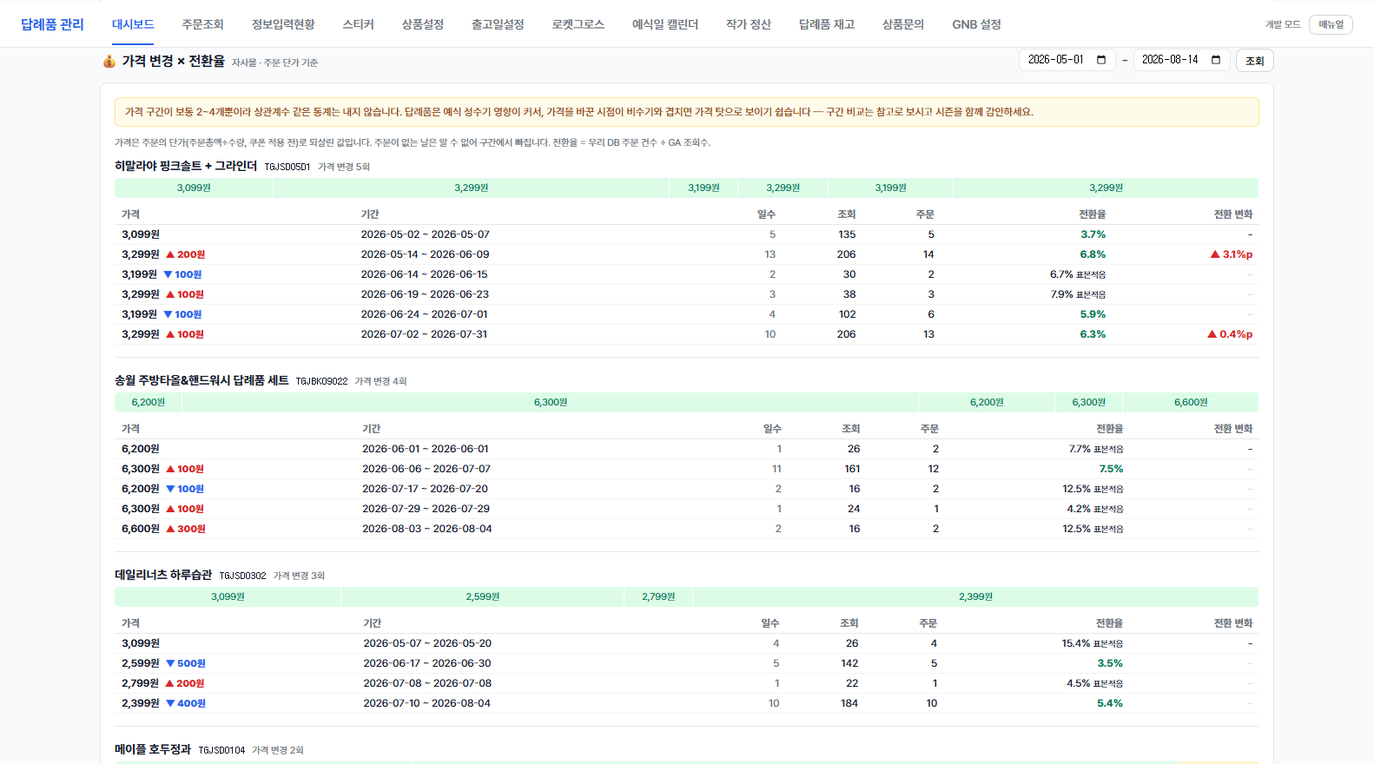
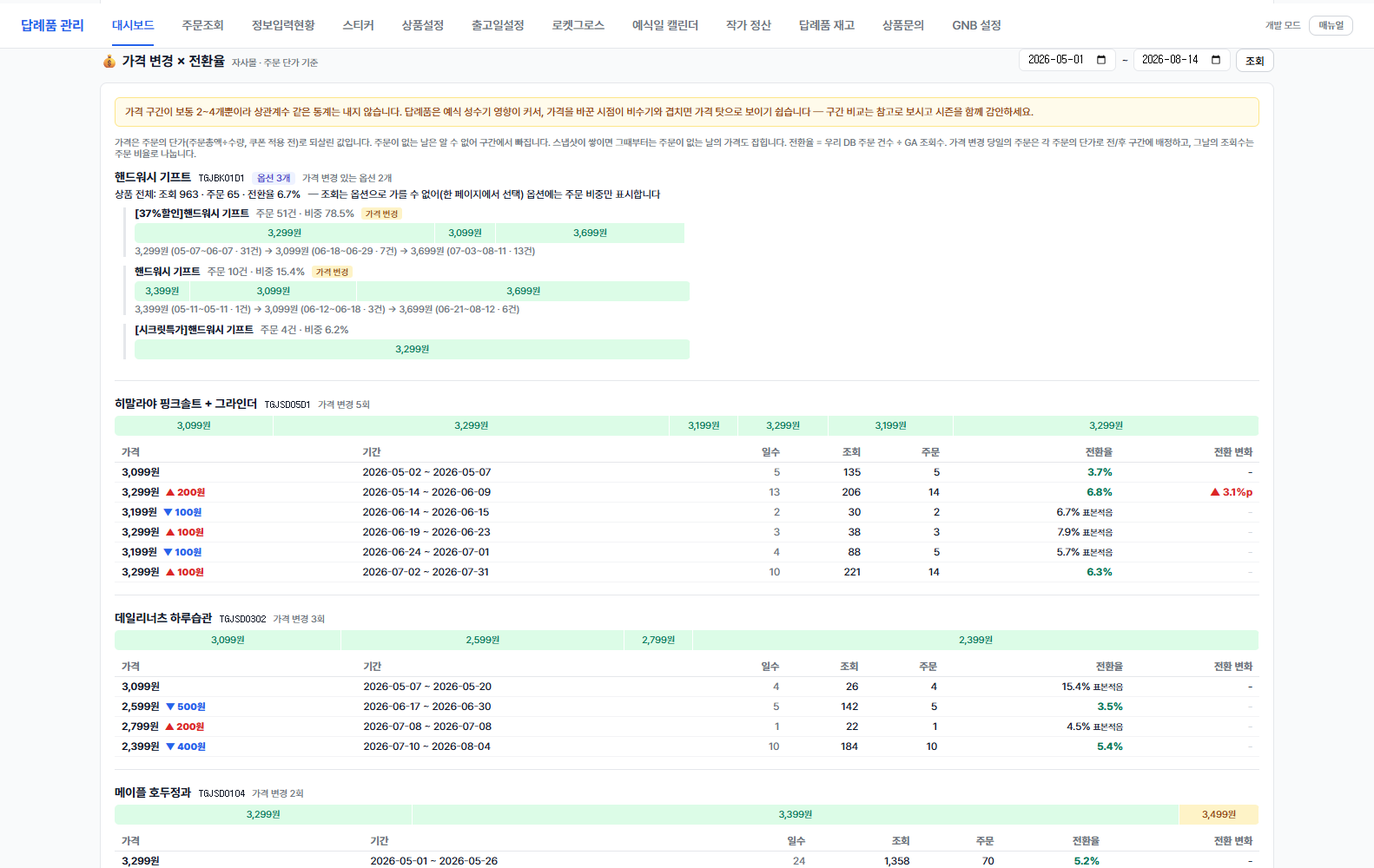
feat: 가격×전환 — 옵션(판매단위)별 분리 + 변경 당일 주문을 단가로 전/후 배정
1) 옵션 상품 분리 (수건 질문에서 시작)
   수건류는 옵션(색상·종류·판형)이 각각 별도 판매단위(S2_CARD.Card_Seq)로 존재하고
   가격이 제각각이다 (라이트무지 3,600 / 뱀부 5,400 / 호텔컬렉션 5,500). 심지어 같은
   Card_Code 에 고리수건(3,100)과 송월세트(6,200)가 함께 있어, 코드로 뭉치는 기존
   방식은 이런 상품에서 가격이 섞였다.

   주문이 판매단위를 물고 있으므로(custom_order_item.card_seq → API 의 item_card_seq)
   옵션 축으로 갈라 분석한다:
   · 옵션별 가격 구간을 따로 산출. 옵션명은 S2_CARD 에서 직접 해석.
   · 조회수는 옵션으로 가를 수 없다 (GA itemId 가 코드 단위, 한 페이지에서 옵션 선택)
     — 없는 값을 만들지 않고 전환율 대신 '주문 비중' 을 준다.
   · 옵션 상품 판정은 '주문 비중 15%+ 판매단위 2개 이상'. 판매단위 개수로만 가르면
     메이플 호두정과(정가/할인/시크릿 변형)까지 옵션 상품이 돼 핵심 가격 스토리가
     사라진다 — 실제로 그렇게 됐다가 기준을 좁혀 복원했다 (21종 중 4종만 옵션 상품).
   · 판매단위별 가격 스냅샷(066)은 이미 card_seq 축이라 그대로 옵션 이력에 얹힌다.
     옵션 다중 상품에는 스냅샷을 코드 합계에 덮지 않는다 — 한 옵션의 가격이 코드
     전체의 '그날 가격' 이 되면 다른 옵션이 지워진다.

   실측: 핸드워시 기프트가 [37%할인](3,299→3,099→3,699 · 비중 78.5%) 와
   일반(3,399→3,099→3,699 · 15.4%) 두 축으로 갈라졌다 — 같은 상품이 동시에 두
   가격으로 팔리고 있었다는 사실 자체가 코드 합계에서는 보이지 않던 정보다.

2) 가격 변경 당일 주문 배정 (사용자 제안)
   가격은 00시에 바뀌는 게 아니라서 변경 당일에는 두 가격의 주문이 섞인다.
   그날의 주문을 각 주문의 단가로 전/후 구간에 배정하고, 조회수는 시각을 모르므로
   (GA 는 일 단위) 그날의 주문 비율로 나눈다. 실측: 메이플 5/26 경계일에서 옛가격
   주문은 이전 구간, 새가격 1건은 새 구간으로 갈라졌다.

단위 테스트 19건 (경계일 양방향 배정 · 조회 분할 비율 · 노이즈 흡수 유지 · 옵션 분리 ·
옵션가 오염 방지). 매뉴얼 3-4⅝ 갱신.

diff --git a/pricing-prototype/daeryepum/ga/price-trend.js b/pricing-prototype/daeryepum/ga/price-trend.js
@@ -44,6 +44,7 @@ const pct = (num, den) => (den > 0 ? Math.round((num / den) * 1000) / 10 : null)
  */
 function dailyPrices(rows) {
   const byCode = new Map();   // base코드 → Map(날짜 → Map(단가 → 건수))
+  const bySeq = new Map();    // base코드 → Map(card_seq → { days: 같은 구조 })
   const names = new Map();
   for (const r of rows || []) {
     if (r.order_type !== 'CARD' && r.order_type !== 'ETC') continue;
@@ -62,14 +63,32 @@ function dailyPrices(rows) {
     const m = days.get(d);
     m.set(unit, (m.get(unit) || 0) + 1);
     if (r.card_name && !names.has(code)) names.set(code, r.card_name);
+    // 판매단위(card_seq)별로도 쌓는다 — 수건처럼 옵션마다 가격이 다른 상품은
+    //   코드 합계에서 가격이 섞이므로 이 축이 있어야 갈라 보인다.
+    const seq = Number(r.item_card_seq);
+    if (Number.isFinite(seq) && seq > 0) {
+      if (!bySeq.has(code)) bySeq.set(code, new Map());
+      const seqs = bySeq.get(code);
+      if (!seqs.has(seq)) seqs.set(seq, { days: new Map(), name: null });
+      const e = seqs.get(seq);
+      if (!e.days.has(d)) e.days.set(d, new Map());
+      const sm = e.days.get(d);
+      sm.set(unit, (sm.get(unit) || 0) + 1);
+    }
   }
-  return { byCode, names };
+  return { byCode, bySeq, names };
 }
 
 /**
  * 일자별 단가 → 가격 구간.
  *   하루의 대표 단가는 '가장 많이 팔린 단가'. 연속으로 같은 값이면 한 구간으로 잇는다.
  *   주문 1건짜리 튀는 날이 구간을 쪼개지 않도록, 앞뒤가 같은 값이면 흡수한다.
+ *
+ * 경계일 처리 (2026-08-14 요청):
+ *   가격은 00시에 바뀌는 게 아니라서 변경 당일에는 두 가격의 주문이 섞인다.
+ *   그날의 주문은 각자의 단가로 전/후 구간에 배정한다 — 대표 단가로 뭉뚱그리면
+ *   변경 당일의 반나절치가 엉뚱한 구간에 들어간다.
+ *   조회수는 시각을 모르므로(GA 는 일 단위) 그날의 주문 비율로 나눈다.
  */
 function segmentsOf(days) {
   const sorted = [...days.entries()].sort((a, b) => a[0].localeCompare(b[0]));
@@ -87,16 +106,42 @@ function segmentsOf(days) {
     }
   }
   const segs = [];
+  const segIndexOfDay = new Map();   // 날짜 → 대표 구간 index
   for (const d of daily) {
     const last = segs[segs.length - 1];
     if (last && last.price === d.price) {
-      last.end = d.date; last.days++; last.orders += d.orders;
+      last.end = d.date; last.days++;
     } else {
-      segs.push({ price: d.price, start: d.date, end: d.date, days: 1, orders: d.orders });
+      segs.push({ price: d.price, start: d.date, end: d.date, days: 1 });
     }
+    segIndexOfDay.set(d.date, segs.length - 1);
+  }
+
+  // 주문을 구간에 배정한다. 기본은 그날의 대표 구간, 경계일의 다른쪽 가격 주문은
+  //   그 가격의 인접 구간으로 보낸다. dayShare 는 조회수 분할용 (날짜 → 구간index → 건수).
+  for (const s of segs) { s.orders = 0; s.boundary_split = 0; }
+  const dayShare = new Map();
+  for (const [d, m] of sorted) {
+    const idx = segIndexOfDay.get(d);
+    const cover = segs[idx];
+    const share = new Map();
+    for (const [price, count] of m) {
+      let target = idx;
+      if (price !== cover.price) {
+        const prev = segs[idx - 1];
+        const next = segs[idx + 1];
+        if (prev && prev.price === price && d === cover.start) target = idx - 1;
+        else if (next && next.price === price && d === cover.end) target = idx + 1;
+        // 그 외의 다른 가격(옵션가·오입력)은 대표 구간에 그대로 둔다 — mixed 로 이미 표시된다
+      }
+      segs[target].orders += count;
+      if (target !== idx) { segs[target].boundary_split += count; segs[idx].end_shared = true; }
+      share.set(target, (share.get(target) || 0) + count);
+    }
+    dayShare.set(d, share);
   }
   const mixedDays = daily.filter(d => d.mixed).length;
-  return { daily, segs, mixedDays };
+  return { daily, segs, mixedDays, dayShare };
 }
 
 /** GA 일자별 상품 조회수 — (base코드, 날짜) → 조회 */
@@ -130,28 +175,45 @@ async function viewsDaily(site, startDate, endDate) {
  * @param {function} opts.fetchOrders (start, end) => 주문 rows
  * @param {string}   opts.code        특정 상품만 (없으면 가격이 바뀐 상품 전부)
  */
-async function priceTrend({ startDate, endDate, fetchOrders, code = null, sites = ['card', 'etc'] } = {}) {
+async function priceTrend({ startDate, endDate, fetchOrders, code = null, sites = ['card', 'etc'], resolveSeqNames = null } = {}) {
   if (!startDate || !endDate) throw new Error('기간이 필요합니다');
   if (typeof fetchOrders !== 'function') throw new Error('fetchOrders 가 필요합니다');
   if (!api.isConfigured()) return { configured: false, config: api.configStatus(), products: [] };
 
   const orderRows = await fetchOrders(startDate, endDate);
-  const { byCode, names } = dailyPrices(orderRows);
+  const { byCode, bySeq, names } = dailyPrices(orderRows);
 
   // 기록된 가격 이력이 있으면 그날의 가격을 그것으로 덮는다.
   //   주문 역산은 '주문이 있는 날' 만 알고 변경 시각도 그만큼 늦게 잡힌다.
   //   스냅샷은 주문이 없어도 값을 알기 때문에 있는 날짜만큼은 이쪽이 정확하다.
+  //   ⚠ 옵션이 여럿인 상품(bySeq 2개+)은 코드 합계에 덮지 않는다 — 스냅샷은 판매단위별
+  //     값이라, 한 옵션의 가격을 코드 전체의 '그날 가격' 으로 박으면 다른 옵션이 지워진다.
   let historyDays = 0;
   try {
     const hist = await require('../barungift/price-watch').listPriceHistory({ startDate, endDate });
     for (const h of hist) {
-      const code = toBase(h.product_code || h.card_code);
+      const codeKey = toBase(h.product_code || h.card_code);
       const d = day(h.captured_at);
-      if (!code || !d || !h.sale_price) continue;
-      if (!byCode.has(code)) byCode.set(code, new Map());
-      // 그날의 대표 단가를 기록값으로 확정한다 (건수를 크게 줘 최빈값 선정에서 이긴다)
-      byCode.get(code).set(d, new Map([[Number(h.sale_price), 9999]]));
-      if (h.product_name && !names.has(code)) names.set(code, h.product_name);
+      if (!codeKey || !d || !h.sale_price) continue;
+      const seqs = bySeq.get(codeKey);
+      const multiOption = (seqs?.size || 0) > 1;
+      if (!multiOption) {
+        if (!byCode.has(codeKey)) byCode.set(codeKey, new Map());
+        // 그날의 대표 단가를 기록값으로 확정한다 (건수를 크게 줘 최빈값 선정에서 이긴다)
+        byCode.get(codeKey).set(d, new Map([[Number(h.sale_price), 9999]]));
+      }
+      // 판매단위별 이력은 옵션 축에 정확히 얹는다 (옵션명도 여기서 온다 — 주문 rows 의
+      //   card_name 은 코드 대표명이라 옵션을 구분하지 못한다)
+      const seq = Number(h.card_seq);
+      if (Number.isFinite(seq) && seq > 0) {
+        if (!bySeq.has(codeKey)) bySeq.set(codeKey, new Map());
+        const sm = bySeq.get(codeKey);
+        if (!sm.has(seq)) sm.set(seq, { days: new Map(), name: null });
+        const e = sm.get(seq);
+        e.days.set(d, new Map([[Number(h.sale_price), 9999]]));
+        if (h.product_name && !e.name) e.name = h.product_name;
+      }
+      if (h.product_name && !names.has(codeKey)) names.set(codeKey, h.product_name);
       historyDays++;
     }
   } catch (e) {
@@ -168,20 +230,25 @@ async function priceTrend({ startDate, endDate, fetchOrders, code = null, sites 
   }
   const viewsOf = (c, d) => viewMaps.reduce((s, m) => s + (m.get(`${c}|${d}`) || 0), 0);
 
-  const products = [];
-  for (const [c, days] of byCode) {
-    if (code && toBase(code) !== c) continue;
-    const { daily, segs, mixedDays } = segmentsOf(days);
-    if (!code && segs.length < 2) continue;   // 가격이 안 바뀐 상품은 목록에서 뺀다
-
-    // 구간별 조회수 — 그 구간의 날짜 범위에 든 GA 조회를 더한다
-    for (const s of segs) {
-      let views = 0;
-      for (const d of daily) {
-        if (d.date >= s.start && d.date <= s.end) views += viewsOf(c, d.date);
+  /** 구간별 조회수·전환율 채우기 — 경계일 조회는 그날의 주문 비율로 나눈다 */
+  const fillSegs = (c, segRes, withViews = true) => {
+    const { daily, segs, dayShare } = segRes;
+    for (const s of segs) { s.views = 0; }
+    for (const d of daily) {
+      const v = withViews ? viewsOf(c, d.date) : 0;
+      const share = dayShare.get(d.date) || new Map();
+      const total = [...share.values()].reduce((a, b) => a + b, 0);
+      if (!v || !total) {
+        // 조회가 있는데 주문이 없는 날은 대표 구간에 전부
+        const idx = segs.findIndex(s => d.date >= s.start && d.date <= s.end);
+        if (idx >= 0) segs[idx].views += v;
+        continue;
       }
-      s.views = views;
-      s.conversion_rate = pct(s.orders, views);
+      for (const [idx, cnt] of share) segs[idx].views += v * (cnt / total);
+    }
+    for (const s of segs) {
+      s.views = Math.round(s.views);
+      s.conversion_rate = pct(s.orders, s.views);
       s.orders_per_day = Math.round((s.orders / s.days) * 10) / 10;
     }
     const changes = [];
@@ -199,33 +266,114 @@ async function priceTrend({ startDate, endDate, fetchOrders, code = null, sites 
           ? Math.round((to.conversion_rate - from.conversion_rate) * 10) / 10 : null,
       });
     }
+    return changes;
+  };
+
+  // 옵션명 해석 — 주문 rows 의 card_name 은 코드 대표명이라 옵션(색상·종류)을 구분하지
+  //   못한다. 서버가 S2_CARD 를 직접 읽는 resolver 를 주면 그걸 쓴다 (스냅샷이 쌓이기
+  //   전에도 이름이 나온다). 실패해도 분석은 계속 — 이름만 seq 로 남는다.
+  let seqNames = new Map();
+  if (typeof resolveSeqNames === 'function') {
+    try {
+      const allSeqs = [...bySeq.values()].flatMap(m => [...m.keys()]);
+      if (allSeqs.length) seqNames = (await resolveSeqNames([...new Set(allSeqs)])) || new Map();
+    } catch (e) {
+      console.warn('[price-trend] 옵션명 해석 실패:', e.message);
+    }
+  }
+
+  const products = [];
+  for (const [c, days] of byCode) {
+    if (code && toBase(code) !== c) continue;
+    const seqs = bySeq.get(c);
+
+    // ── 옵션 상품 판정 ──
+    //   판매단위가 여러 개라고 다 옵션 상품은 아니다. 메이플 호두정과도 정가/할인/시크릿
+    //   변형이 별도 seq 라 2개+ 로 잡히는데, 주문이 한 변형에 몰려 있으면 사실상 단일
+    //   가격 상품이다 — 그걸 옵션 표시로 바꾸면 핵심(가격 변경 스토리)이 사라진다.
+    //   '주문 비중 15% 이상인 판매단위가 2개 이상' 일 때만 옵션 상품으로 본다 (수건 실측
+    //   78.9/15.8/5.3 이 잡히고, 할인 변형 99/1 은 안 잡히는 경계).
+    let multiOption = false;
+    let seqOrderCounts = null;
+    if ((seqs?.size || 0) > 1) {
+      seqOrderCounts = new Map([...seqs.entries()].map(([seq, e]) => [seq,
+        [...e.days.values()].reduce((x, m) => x + [...m.values()].reduce((p, q) => p + q, 0), 0)]));
+      const total = [...seqOrderCounts.values()].reduce((a, b) => a + b, 0);
+      const significant = [...seqOrderCounts.values()].filter(n => total > 0 && n / total >= 0.15).length;
+      multiOption = significant >= 2;
+    }
+
+    // ── 옵션별 분석 — 수건처럼 판매단위(card_seq)마다 가격이 다른 상품 ──
+    //   조회수는 옵션으로 가를 수 없다 (GA itemId 가 코드 단위, 한 페이지에서 옵션 선택).
+    //   그래서 옵션에는 전환율 대신 '주문 비중' 을 준다 — 없는 값을 만들지 않는다.
+    let options = null;
+    if (multiOption) {
+      const totalOrders = [...seqs.values()].reduce((a, e) =>
+        a + [...e.days.values()].reduce((x, m) => x + [...m.values()].reduce((p, q) => p + q, 0), 0), 0);
+      options = [...seqs.entries()].map(([seq, e]) => {
+        const segRes = segmentsOf(e.days);
+        fillSegs(c, segRes, false);   // 옵션 조회수는 없다 — views 0/전환율 null 로
+        const orders = segRes.segs.reduce((a, s) => a + s.orders, 0);
+        return {
+          card_seq: seq,
+          name: seqNames.get(seq) || e.name || `판매단위 ${seq}`,
+          orders,
+          share_pct: totalOrders > 0 ? Math.round((orders / totalOrders) * 1000) / 10 : null,
+          segments: segRes.segs.map(s => ({
+            price: s.price, start: s.start, end: s.end, days: s.days, orders: s.orders,
+          })),
+          changed: segRes.segs.length > 1,
+        };
+      }).sort((a, b) => b.orders - a.orders);
+    }
+
+    const segRes = segmentsOf(days);
+    const { daily, segs, mixedDays } = segRes;
+    const optionChanged = !!options?.some(o => o.changed);
+    if (!code && segs.length < 2 && !optionChanged) continue;   // 가격이 안 바뀐 상품은 뺀다
+
+    const changes = fillSegs(c, segRes);
     products.push({
       code: c,
       name: names.get(c) || c,
-      segments: segs,
-      changes,
-      daily: daily.map(d => ({ ...d, views: viewsOf(c, d.date) })),
+      // 옵션이 여럿이면 코드 합계 구간은 옵션가가 섞인 값이라 표시하지 않는다 —
+      //   보여주면 '가격 변경' 처럼 읽힌다. 대신 options 로 내려보낸다.
+      segments: multiOption ? [] : segs,
+      changes: multiOption ? [] : changes,
+      multi_option: multiOption,
+      options,
+      totals: {
+        views: daily.reduce((a, d) => a + viewsOf(c, d.date), 0),
+        orders: segs.reduce((a, s) => a + s.orders, 0),
+      },
+      daily: multiOption ? [] : daily.map(d => ({ ...d, views: viewsOf(c, d.date) })),
       mixed_days: mixedDays,
       total_days: daily.length,
-      // 하루에 단가가 갈리는 날이 많으면 '시점 변경' 이 아니라 수량 구간 가격일 수 있다
-      mixed_warning: mixedDays > daily.length * 0.3
+      // 옵션 다중이면 mixed 는 당연한 현상이라 경고하지 않는다
+      mixed_warning: !multiOption && mixedDays > daily.length * 0.3
         ? '같은 날에 단가가 갈리는 날이 많습니다 — 시점별 가격 변경이 아니라 수량 구간별 가격일 수 있습니다.'
         : null,
     });
   }
-  products.sort((a, b) => b.changes.length - a.changes.length || b.total_days - a.total_days);
+  for (const p of products) {
+    p.totals.conversion_rate = pct(p.totals.orders, p.totals.views);
+  }
+  products.sort((a, b) => (b.changes.length + (b.options?.filter(o => o.changed).length || 0))
+    - (a.changes.length + (a.options?.filter(o => o.changed).length || 0))
+    || b.total_days - a.total_days);
 
   return {
     configured: true,
     start_date: startDate, end_date: endDate,
     products,
     history_days: historyDays,
-    note: historyDays
+    note: (historyDays
       ? `가격은 기록된 스냅샷(${historyDays}건)을 우선 쓰고, 없는 날은 주문 단가(주문총액÷수량, `
-        + '쿠폰 적용 전)로 되살립니다. 전환율 = 우리 DB 주문 건수 ÷ GA 조회수.'
+        + '쿠폰 적용 전)로 되살립니다. 전환율 = 우리 DB 주문 건수 ÷ GA 조회수. '
       : '가격은 주문의 단가(주문총액÷수량, 쿠폰 적용 전)로 되살린 값입니다. 주문이 없는 날은 알 수 없어 '
         + '구간에서 빠집니다. 스냅샷이 쌓이면 그때부터는 주문이 없는 날의 가격도 잡힙니다. '
-        + '전환율 = 우리 DB 주문 건수 ÷ GA 조회수.',
+        + '전환율 = 우리 DB 주문 건수 ÷ GA 조회수. ')
+      + '가격 변경 당일의 주문은 각 주문의 단가로 전/후 구간에 배정하고, 그날의 조회수는 주문 비율로 나눕니다.',
     caution: '가격 구간이 보통 2~4개뿐이라 상관계수 같은 통계는 내지 않습니다. '
       + '답례품은 예식 성수기 영향이 커서, 가격을 바꾼 시점이 비수기와 겹치면 가격 탓으로 보이기 쉽습니다 — '
       + '구간 비교는 참고로 보시고 시즌을 함께 감안하세요.',

diff --git a/pricing-prototype/daeryepum/index.html b/pricing-prototype/daeryepum/index.html
@@ -6113,17 +6113,51 @@ function _ptRender(j) {
       ${esc(j.caution || '')}</div>
     <div style="margin-bottom:12px;font-size:11px;color:var(--gray-500)">${esc(j.note || '')}</div>
     ${products.map((p, i) => {
+      // 가격 구간 막대 — 폭은 기간(일수), 색은 전환율 (옵션 블록에서도 재사용)
+      const barOf = (segs, withCr = true) => {
+        const totalDays = segs.reduce((s, x) => s + x.days, 0) || 1;
+        return segs.map(s => {
+          const w = Math.max(6, Math.round((s.days / totalDays) * 100));
+          const good = withCr ? (s.conversion_rate != null && s.conversion_rate >= 3) : true;
+          return `<div title="${esc(won(s.price))} · ${esc(s.start)}~${esc(s.end)}${withCr ? ` · 전환율 ${s.conversion_rate ?? '-'}%` : ''}"
+               style="width:${w}%;padding:5px 4px;text-align:center;font-size:11px;white-space:nowrap;overflow:hidden;
+                      background:${good ? '#dcfce7' : '#fef3c7'};border-right:1px solid #fff;color:${good ? '#047857' : '#92400e'}">
+               ${won(s.price)}</div>`;
+        }).join('');
+      };
       const segs = p.segments || [];
-      // 가격 구간을 막대로 — 폭은 기간(일수), 색은 전환율
-      const totalDays = segs.reduce((s, x) => s + x.days, 0) || 1;
-      const bar = segs.map(s => {
-        const w = Math.max(6, Math.round((s.days / totalDays) * 100));
-        const good = s.conversion_rate != null && s.conversion_rate >= 3;
-        return `<div title="${esc(won(s.price))} · ${esc(s.start)}~${esc(s.end)} · 전환율 ${s.conversion_rate ?? '-'}%"
-             style="width:${w}%;padding:5px 4px;text-align:center;font-size:11px;white-space:nowrap;overflow:hidden;
-                    background:${good ? '#dcfce7' : '#fef3c7'};border-right:1px solid #fff;color:${good ? '#047857' : '#92400e'}">
-             ${won(s.price)}</div>`;
-      }).join('');
+      const bar = barOf(segs);
+
+      // ── 옵션이 여럿인 상품 (수건 등) — 코드 합계 대신 옵션별로 보여준다 ──
+      if (p.multi_option) {
+        const optChanged = (p.options || []).filter(o => o.changed).length;
+        return `
+      <div style="margin-bottom:18px;padding-bottom:14px;${i < products.length - 1 ? 'border-bottom:1px solid var(--gray-200)' : ''}">
+        <div style="display:flex;align-items:baseline;gap:8px;margin-bottom:4px;flex-wrap:wrap">
+          <b style="font-size:14px">${esc(p.name)}</b>
+          <span style="font-family:monospace;font-size:11px;color:var(--gray-400)">${esc(p.code)}</span>
+          <span style="font-size:11px;padding:1px 6px;border-radius:4px;background:#eef2ff;color:#4338ca">옵션 ${p.options.length}개</span>
+          <span style="font-size:11px;color:var(--gray-500)">가격 변경 있는 옵션 ${optChanged}개</span>
+        </div>
+        <div style="font-size:12px;color:var(--gray-600);margin-bottom:8px">
+          상품 전체: 조회 ${Number(p.totals.views).toLocaleString()} · 주문 ${Number(p.totals.orders).toLocaleString()}
+          · 전환율 ${p.totals.conversion_rate != null ? p.totals.conversion_rate + '%' : '-'}
+          <span style="color:var(--gray-400);margin-left:6px">— 조회는 옵션으로 가를 수 없어(한 페이지에서 선택) 옵션에는 주문 비중만 표시합니다</span>
+        </div>
+        ${p.options.map(o => `
+          <div style="margin:6px 0 10px 10px;padding-left:10px;border-left:3px solid var(--gray-200)">
+            <div style="display:flex;align-items:baseline;gap:8px;font-size:12px;margin-bottom:4px;flex-wrap:wrap">
+              <b>${esc(o.name)}</b>
+              <span style="color:var(--gray-500)">주문 ${Number(o.orders).toLocaleString()}건 · 비중 ${o.share_pct != null ? o.share_pct + '%' : '-'}</span>
+              ${o.changed ? '<span style="font-size:10px;padding:1px 5px;border-radius:3px;background:#fef3c7;color:#92400e">가격 변경</span>' : ''}
+            </div>
+            <div style="display:flex;border-radius:5px;overflow:hidden;max-width:640px">${barOf(o.segments, false)}</div>
+            ${o.changed ? `<div style="font-size:11px;color:var(--gray-500);margin-top:3px">
+              ${o.segments.map(s => `${won(s.price)} (${esc(s.start.slice(5))}~${esc(s.end.slice(5))} · ${s.orders}건)`).join(' → ')}</div>` : ''}
+          </div>`).join('')}
+      </div>`;
+      }
+
       return `
       <div style="margin-bottom:18px;padding-bottom:14px;${i < products.length - 1 ? 'border-bottom:1px solid var(--gray-200)' : ''}">
         <div style="display:flex;align-items:baseline;gap:8px;margin-bottom:6px">

diff --git a/pricing-prototype/daeryepum/manual.html b/pricing-prototype/daeryepum/manual.html
@@ -185,6 +185,8 @@ code{background:var(--gray-100);padding:2px 6px;border-radius:4px;font-size:12px
     <br>스냅샷은 2026-08-14부터 쌓이기 시작하므로, 그 이전은 주문 단가 기준입니다.</li>
   <li><b>가격 막대</b>: 구간의 길이가 그 가격이 유지된 기간입니다. 초록은 전환율이 높은 구간, 노랑은 낮은 구간입니다.</li>
   <li><b>표본적음</b>: 그 구간의 조회가 100건 미만이면 전환율이 크게 흔들립니다(조회 16건에 주문 2건이면 12.5%). 회색으로 표시하고, 그런 구간이 끼면 <b>전환 변화 비교를 아예 하지 않습니다</b>.</li>
+  <li><b>가격 변경 당일</b>: 가격은 00시에 바뀌지 않으므로 변경 당일에는 두 가격의 주문이 섞입니다. 그날의 주문은 <b>각 주문의 단가</b>로 전/후 구간에 배정하고, 조회수는 그 주문 비율로 나눕니다.</li>
+  <li><b>옵션 상품</b> (수건 등 옵션마다 가격이 다른 경우): <span class="badge b-purple">옵션 N개</span> 배지가 붙고 <b>옵션(판매단위)별로 가격 이력이 따로</b> 나옵니다. 조회수는 한 페이지에서 옵션을 고르는 구조라 옵션으로 가를 수 없어, 옵션에는 전환율 대신 <b>주문 비중</b>을 표시합니다. 주문 비중 15% 이상인 판매단위가 2개 이상일 때만 옵션 상품으로 봅니다 — 할인/시크릿 변형에 주문이 몰린 상품은 단일 가격 상품으로 다룹니다.</li>
   <li><b>가격이 바뀐 적 없는 상품</b>은 목록에 나오지 않습니다.</li>
 </ul>
 <div class="tip">가격 구간이 보통 2~4개뿐이라 상관계수 같은 통계는 내지 않습니다. 답례품은 예식 성수기 영향이 커서 <b>가격을 바꾼 시점이 비수기와 겹치면 가격 탓으로 보이기 쉽습니다</b> — 구간 비교는 참고로 보시고 시즌을 함께 감안하세요. 같은 날에 단가가 갈리는 날이 많은 상품은 시점별 변경이 아니라 수량 구간별 가격일 수 있어 경고가 표시됩니다.</div>

diff --git a/pricing-prototype/daeryepum/server.js b/pricing-prototype/daeryepum/server.js
@@ -14517,6 +14517,19 @@ const server = http.createServer(async (req, res) => {
               const r = await apiOrders({ start_date: start, end_date: end, category: 'daeryepum' });
               return Array.isArray(r) ? r : (r.orders || r.rows || []);
             },
+            // 옵션명 — 주문 rows 의 card_name 은 코드 대표명이라 옵션(색상·종류)을 못 가른다.
+            //   S2_CARD 에서 판매단위 이름을 직접 읽는다.
+            resolveSeqNames: async (seqList) => {
+              const p = await getPool();
+              const req = p.request();
+              const inClause = seqList.slice(0, 500).map((s, i) => {
+                req.input(`s${i}`, Number(s));
+                return `@s${i}`;
+              }).join(',');
+              const rs = await req.query(
+                `SELECT Card_Seq, Card_Name FROM S2_CARD WITH (NOLOCK) WHERE Card_Seq IN (${inClause})`);
+              return new Map(rs.recordset.map(r => [Number(r.Card_Seq), String(r.Card_Name || '')]));
+            },
           });
         } catch (e) {
           res.writeHead(400, { 'Content-Type': 'application/json' });
